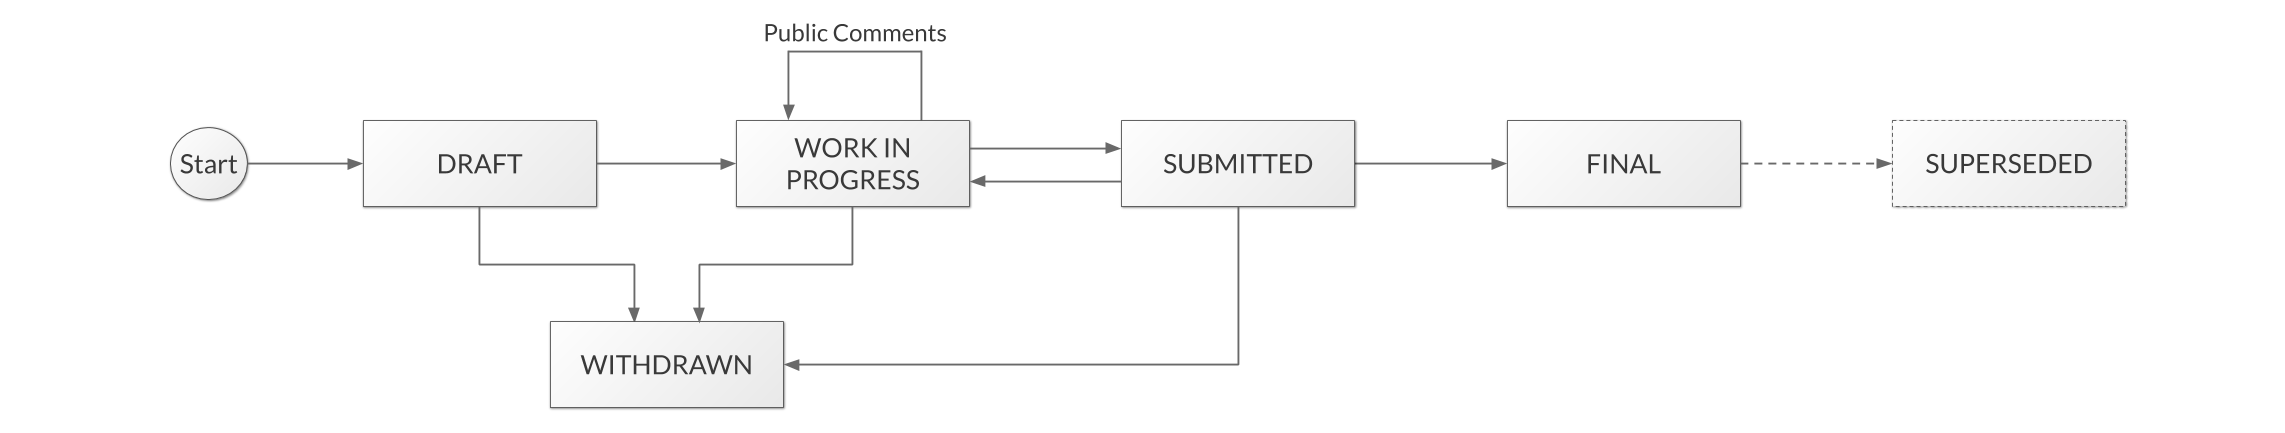
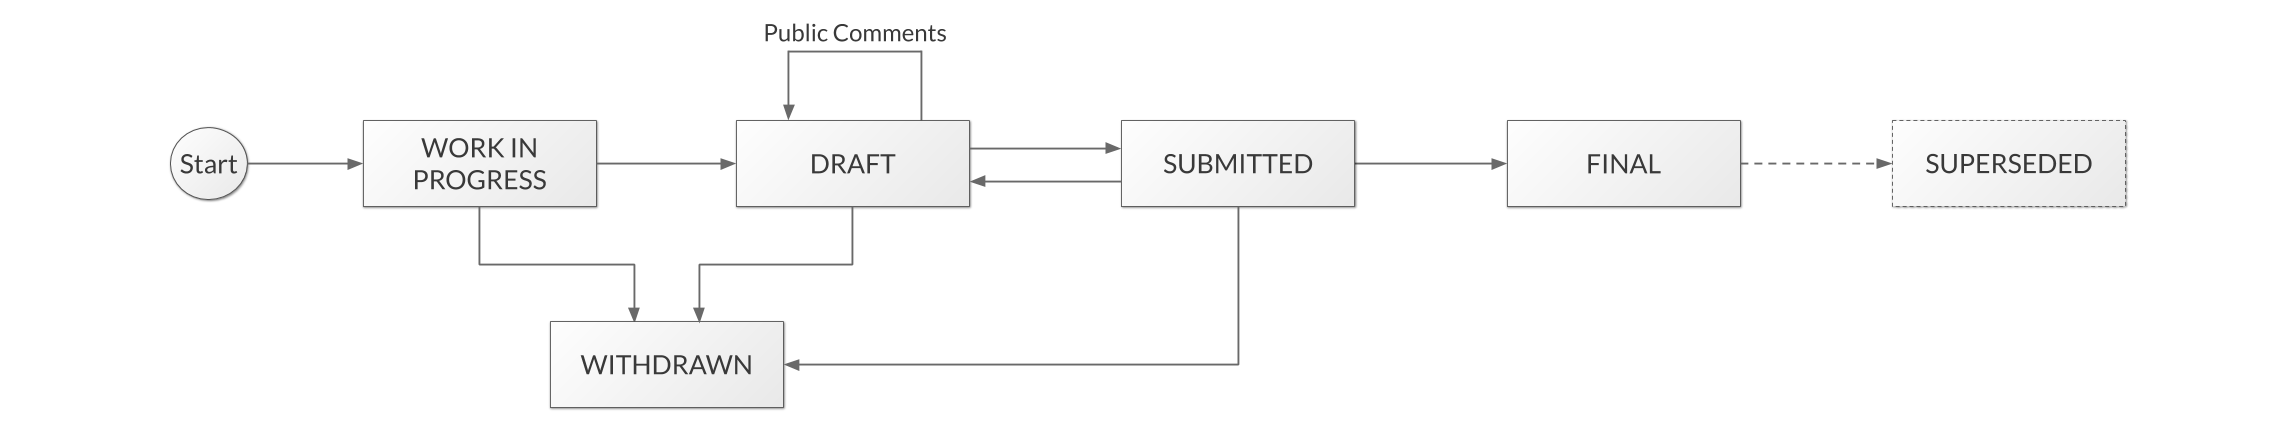
Switched 'Draft' and 'Work In Progress' statuses to add clarity

Changed region(s): [[0.3418, 0.3002, 0.4039, 0.4503], [0.1864, 0.3002, 0.2486, 0.4503]]

diff --git a/proposals/tzip-1/tzip-1.md b/proposals/tzip-1/tzip-1.md
@@ -64,8 +64,8 @@ A TZIP can have the following statuses:
 
 | Status             | Actor         | Description                                                                                                           | GitLab Actions to get that Status                         | Next Statuses               |
 | :----------------- | :------------ | :-------------------------------------------------------------------------------------------------------------------- | :------------------------------------------------------- | :-------------------------- |
-| `DRAFT`            | Author        | This covers the initial work being done to create the TZIP and its accompanying resources                             | 1. Author submits a MR to reserve a TZIP number in the [README table](/README.md#current-tzips) and creates the *tzip-xx* folder (where *xx* is the new TZIP number) in [proposals](/proposals).<br/>2. Author creates a new branch, *tzip-xx*, to work and iterate on the new TZIP      | WORK IN PROGRESS, WITHDRAWN |
-| `WORK IN PROGRESS` | Author        | The TZIP is now in good shape, and is ready to be shared with the community to get iterative feedback                 | 1. Author submits a MR from the *tzip-xx* branch<br/>2. Author updates the [README table](/README.md#current-tzips)                 | SUBMITTED, WITHDRAWN        |
+| `WORK IN PROGRESS`            | Author        | This covers the initial work being done to create the TZIP and its accompanying resources                             | 1. Author submits a MR to reserve a TZIP number in the [README table](/README.md#current-tzips) and creates the *tzip-xx* folder (where *xx* is the new TZIP number) in [proposals](/proposals).<br/>2. Author creates a new branch, *tzip-xx*, to work and iterate on the new TZIP      | DRAFT, WITHDRAWN |
+| `DRAFT` | Author        | The TZIP is now in good shape, and is ready to be shared with the community to get iterative feedback                 | 1. Author submits a MR from the *tzip-xx* branch<br/>2. Author updates the [README table](/README.md#current-tzips)                 | SUBMITTED, WITHDRAWN        |
 | `WITHDRAWN`        | -             | The authors decide that the TZIP is no longer needed, or the reviewers decide to reject it (e.g. for non-compliance)  | 1. Author or Reviewer closes the *tzip-xx* branch<br/>2. Author or Reviewer updates the [README table](/README.md#current-tzips)                            | -                           | 
 | `SUBMITTED`        | Reviewer      | The TZIP has been approved by the community and is submitted to the reviewers                                         | 1. Author updates the [README table](/README.md#current-tzips)                                                              | FINAL, WITHDRAWN            |
 | `FINAL`            | Reviewer      | The TZIP has been approved by the reviewers                                                                           | 1. Reviewer merges the *tzip-xx* branch from the Author's merge request<br/>2. Reviewer updates the [README table](/README.md#current-tzips)       | SUPERSEDED                  |
@@ -75,7 +75,7 @@ Note: We might automate the README table updates in the future.
 
 ### TZIP Authors
 
-Once the authors are happy with the initial work on their TZIP, they will move its status from *DRAFT* to *WORK IN PROGRESS*. At that point, the authors should solicit feedback from the Tezos community before submitting the TZIP to the reviewers. As prior work on the same or similar topics may not be immediately apparent or accessible from publicly available information, inviting community advice can both save time and effort, and result in a stronger proposal.
+Once the authors are happy with the initial work on their TZIP, they will move its status from *WORK IN PROGRESS* to *DRAFT*. At that point, the authors should solicit feedback from the Tezos community before submitting the TZIP to the reviewers. As prior work on the same or similar topics may not be immediately apparent or accessible from publicly available information, inviting community advice can both save time and effort, and result in a stronger proposal.
 
 Examples of appropriate public forums to gauge response to a TZIP:
 
@@ -92,7 +92,7 @@ Once the TZIP moves to *SUBMITTED*, the reviewers will:
 - Review any accompanying resources, such as implementations, proofs, papers, links, etc.
 - When relevant, determine whether the FAQ fairly expresses and responds to criticisms of the proposal.
 
-If the TZIP does not meet the standards, the reviewers will send it back to *WORK IN PROGRESS*, with specific instructions, so the authors can update it. This process may repeat as many times as necessary. The reviewers may additionally refer the TZIP to outside reviewers with relevant knowledge. Reviewers may also outright reject a TZIP submission that is unsuitable for review or is otherwise non-compliant with the standards outlined in relevant active TZIPs.
+If the TZIP does not meet the standards, the reviewers will send it back to *DRAFT*, with specific instructions, so the authors can update it. This process may repeat as many times as necessary. The reviewers may additionally refer the TZIP to outside reviewers with relevant knowledge. Reviewers may also outright reject a TZIP submission that is unsuitable for review or is otherwise non-compliant with the standards outlined in relevant active TZIPs.
 
 Should the reviewers approve the TZIP, they will:
 
@@ -112,7 +112,7 @@ Each TZIP should have the following sections:
 - **Rationale**: The rationale fleshes out the specification by describing what motivated the design and why particular design decisions were made. It should describe alternate designs that were considered and related work, e.g. how the feature is supported in other languages. The rationale may also provide evidence of consensus within the community, and should discuss important objections or concerns raised during discussion.
 - **Backwards Compatibility**: All TZIPs that introduce backwards incompatibilities or supersede other TZIPs must include a section describing these incompatibilities, their severity, and solutions.
 - **Test Cases**: Test cases for an implementation are strongly recommended as are any proofs of correctness via formal methods.
-- **Implementations**: Any implementation must be completed before the TZIP is given the status Submitted, but is not mandatory in *Draft* and *Work In Progress* status.
+- **Implementations**: Any implementation must be completed before the TZIP is given the status Submitted, but is not mandatory in *Work In Progress* and *Draft* status.
 - **Appendix**: A list of references relevant to the proposal.
 - **Copyright**: All TZIPs must be in the public domain, or under a permissive license substantially identical to placement in the public domain. See the bottom of this TZIP for an example copyright waiver.
 
@@ -127,13 +127,13 @@ Additionally, the authors agree to follow and enforce the TZIP Code of Conduct, 
 
 Each TZIP must begin with an RFC 822 style header preamble, preceded and followed by three hyphens (`---`). The headers must appear in the following order.
 
-- `tzip:` TZIP number. The number should be requested via a merge request as soon as the TZIP is in *Draft* status
+- `tzip:` TZIP number. The number should be requested via a merge request as soon as the TZIP is in *Work In Progress* status
 - `title:` A short descriptive title, maximum 44 characters. If the TZIP has a *name* (see [TZIP-2](/proposals/tzip-2/tzip-2.md)), then it is added as a title prefix (e.g. *FA1 - Abstract Ledger*)
 - `author:` Name(s) of author(s), ideally with their username(s) or email address(es). Examples: *John Doe*, *John Doe (@username)*, *John Doe &lt;address@dom.ain&gt;*
 - `advocate:` Optional. Name(s) of advocate(s), ideally with their username(s) or email address(es)
 - `gratuity:` Optional. A Tezos address controlled by an author capable of receiving gratuities from grateful Tezos users
 - `discussions-to:` Optional. A url pointing to the official discussion thread
-- `status:` Can be: Draft | Work In Progress | Withdrawn | Submitted | Superseded
+- `status:` Can be: Work In Progress | Draft | Withdrawn | Submitted | Superseded
 - `type:` TZIP type as defined in [TZIP-2](/proposals/tzip-2/tzip-2.md)
 - `created:` Date the TZIP was created, format yyyy-mm-dd
 - `requires:` Optional. TZIP numbers, representing TZIPs that this TZIP depends on

diff --git a/proposals/tzip-2/tzip-2.md b/proposals/tzip-2/tzip-2.md
@@ -16,15 +16,13 @@ This document lists the different types a TZIP can be, with their descriptions. 
 
 | Type Prefix | Topic                  | Description                |
 |-------------|------------------------|----------------------------|
-|             | Meta                   | This type describes a process surrounding Tezos or proposes a change to (or an event in) a process. Examples include procedures, guidelines, changes to the TZIP process itself, or proposals for new social institutions and spaces. The present document is a Meta TZIP. |
 | `A`         | Application            | Applications built on top of Tezos, particularly smart contract or higher layer applications. |
 | `LA`        | Layer-n Application    | Higher-layer applications which use the Tezos chain e.g. for settlement or communication. |
 | `FA`        | Financial Application  | Applications involving the management, allocation or transfer of instruments which mediate economic value, such as assets or liabilities. |
 | `I`         | Interface              | Improvements around client API/RPC specifications and standards. |
 | `L`         | Language               | Improvements to smart contract, formal proof, or implementation languages. Examples are specifications for [Michelson](https://tezos.gitlab.io/whitedoc/michelson.html), [LIGO](https://ligolang.org/), [SmartPy](https://smartpy.io/), [Morley](http://hackage.haskell.org/package/morley), [Fi](https://learn.fi-code.com/), or best practices for Tezos projects using OCaml, Haskell, Rust, JavaScript, Coq, Agda, etc. |
-| `N`         | Networking             | Improvements to the peer-to-peer layer. |
-| `X`         | Cryptography           | Improvements to cryptographic primitives. |
-| `Z`         | Informational          | Discusses a Tezos design issue, or provides general guidelines or information to the Tezos community. |
+| -           | Meta                   | This type describes a process surrounding Tezos or proposes a change to (or an event in) a process. Examples include procedures, guidelines, changes to the TZIP process itself, or proposals for new social institutions and spaces. The present document is a Meta TZIP. |
+| -           | Informational          | Discusses a Tezos design issue, or provides general guidelines or information to the Tezos community. |
 
 Additional types of TZIP may be proposed, and existing TZIP types may also be deprecated by future Meta TZIPs. All the updates will be maintained in this TZIP ([TZIP-2](/proposals/tzip-2/tzip-2.md)).
 

diff --git a/README.md b/README.md
@@ -19,12 +19,12 @@ A TZIP should additionally contain an FAQ which documents, compares, and answers
 | [TZIP-5]  | **FA1** - Abstract Ledger                                  |  04/12/2019   | Submitted          |
 | [TZIP-6]  | **A1.1** - Balanced Trees for nested or and pair types     |  05/04/2019   | Submitted          |
 | [TZIP-7]  | **FA1.2** - Approvable Ledger                              |  06/20/2019   | Submitted          |
-| [TZIP-8]  | Payment Request Format                                     |  06/25/2019   | Draft              |
-| [TZIP-9]  | Info Field for Payment Requests                            |  06/25/2019   | Draft              |
-| [TZIP-10] | **LA1** - Wallet Interaction Standard                      |  09/17/2019   | Work In Progress   |
-| [TZIP-11] | Contract Specification Schema                              |       -       | Draft              |
-| [TZIP-12] | **FA2** - Multi-Asset Interface                            |       -       | Draft              |
-| [TZIP-13] | **FA1.3** - Fungible Asset Standard                        |  01/02/2020   | Work In Progress   |
+| [TZIP-8]  | Payment Request Format                                     |  06/25/2019   | Work In Progress   |
+| [TZIP-9]  | Info Field for Payment Requests                            |  06/25/2019   | Work In Progress   |
+| [TZIP-10] | **LA1** - Wallet Interaction Standard                      |  09/17/2019   | Draft              |
+| [TZIP-11] | Contract Specification Schema                              |       -       | Work In Progress   |
+| [TZIP-12] | **FA2** - Multi-Asset Interface                            |       -       | Work In Progress   |
+| [TZIP-13] | **FA1.3** - Fungible Asset Standard                        |  01/02/2020   | Draft              |
 
 ## How to Contribute
 

diff --git a/templates/tzip-template-faq.md b/templates/tzip-template-faq.md
@@ -6,7 +6,7 @@ author: Name(s) of author(s), ideally with their username(s) or email address(es
 advocate: Optional. Name(s) of advocate(s), ideally with their username(s) or email address(es)
 gratuity: Optional. A Tezos address controlled by an author capable of receiving gratuities from grateful Tezos users
 discussions-to: Optional. A url pointing to the official discussion thread
-status: <Draft | Work In Progress | Withdrawn | Submitted | Superseded>
+status: <Work In Progress | Draft | Withdrawn | Submitted | Superseded>
 type: Defined in TZIP-2
 created: Date created on, format yyyy-mm-dd
 requires: Optional. Comma-separated TZIP numbers

diff --git a/templates/tzip-template.md b/templates/tzip-template.md
@@ -6,7 +6,7 @@ author: Name(s) of author(s), ideally with their username(s) or email address(es
 advocate: Optional. Name(s) of advocate(s), ideally with their username(s) or email address(es)
 gratuity: Optional. A Tezos address controlled by an author capable of receiving gratuities from grateful Tezos users
 discussions-to: Optional. A url pointing to the official discussion thread
-status: <Draft | Work In Progress | Withdrawn | Submitted | Superseded>
+status: <Work In Progress | Draft | Withdrawn | Submitted | Superseded>
 type: Defined in TZIP-2
 created: Date created on, format yyyy-mm-dd
 requires: Optional. Comma-separated TZIP numbers

diff --git a/proposals/tzip-10/tzip-10-faq.md b/proposals/tzip-10/tzip-10-faq.md
@@ -3,7 +3,7 @@ tzip: 10
 title: LA1 - Wallet Interaction Standard
 author: Alessandro De Carli <a.decarli@papers.ch>, Mike Godenzi <m.godenzi@papers.ch>, Andreas Gassmann <a.gassmann@papers.ch>, Pascal Brun <@pascuin>
 discussions-to: https://forum.tezosagora.org/t/wallet-interaction-standard/1399
-status: Work In Progress
+status: Draft
 type: LA
 created: 2019-09-17
 ---

diff --git a/proposals/tzip-10/tzip-10.md b/proposals/tzip-10/tzip-10.md
@@ -3,7 +3,7 @@ tzip: 10
 title: Wallet Interaction Standard
 author: Alessandro De Carli <a.decarli@papers.ch>, Mike Godenzi <m.godenzi@papers.ch>, Andreas Gassmann <a.gassmann@papers.ch>, Pascal Brun <@pascuin>
 discussions-to: https://forum.tezosagora.org/t/wallet-interaction-standard/1399
-status: Work In Progress
+status: Draft
 type: LA
 created: 2019-09-17
 ---

diff --git a/proposals/tzip-9/tzip-9.md b/proposals/tzip-9/tzip-9.md
@@ -1,7 +1,7 @@
 ---
 tzip: 9
 title: Info Field for Payment Requests
-status: Draft
+status: Work In Progress
 type: Informational
 author: Martin Pospěch <martin@smartcontractlabs.ee>
 created: 2019-06-25

diff --git a/proposals/tzip-8/tzip-8.md b/proposals/tzip-8/tzip-8.md
@@ -1,7 +1,7 @@
 ---
 tzip: 8
 title: Payment Request Format
-status: Draft
+status: Work In Progress
 type: Interface
 author: Martin Pospěch <martin@smartcontractlabs.ee>
 created: 2019-06-25
